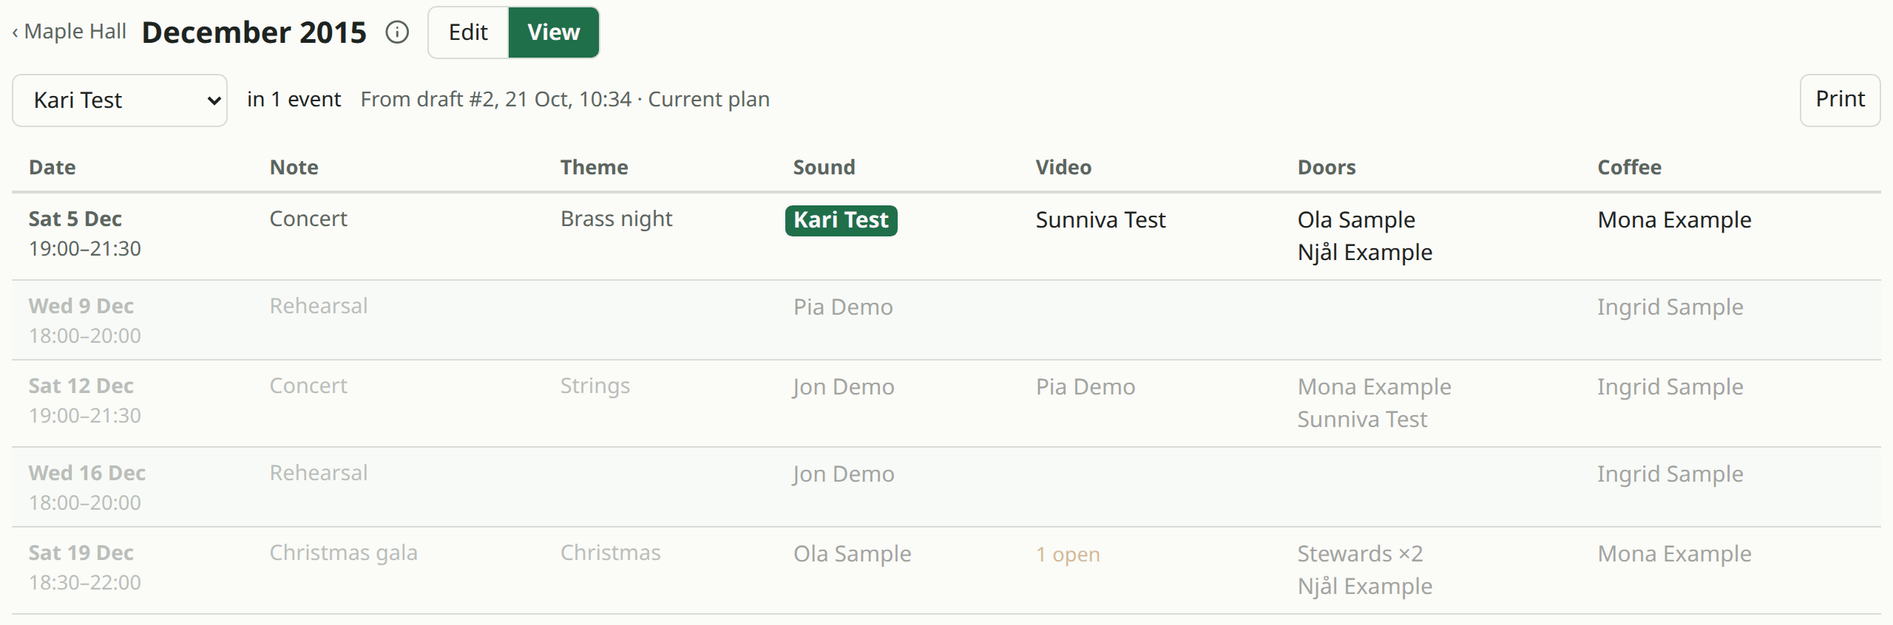
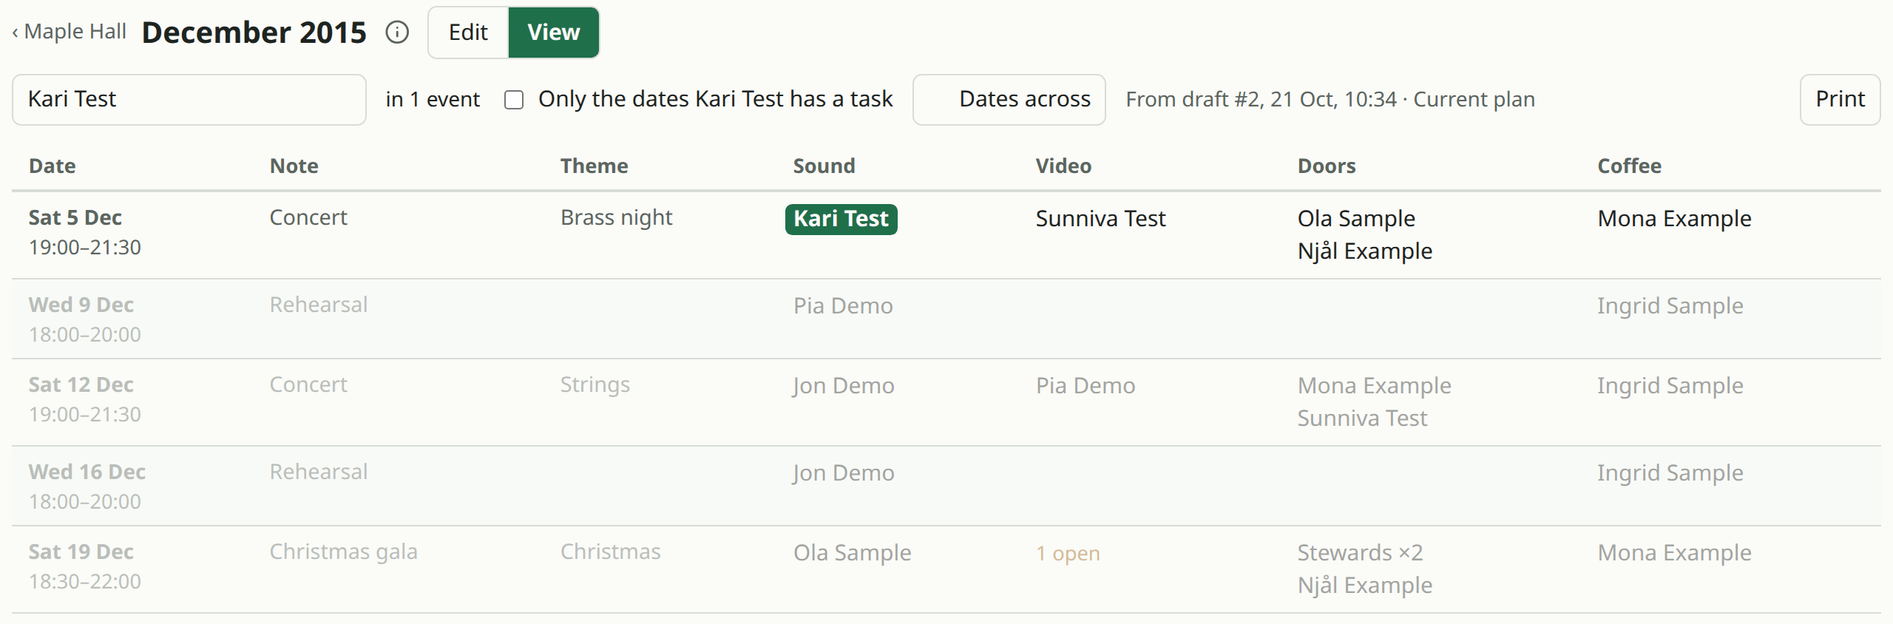
View: a search field to find a name, Dates across, Only the dates with a task (#43)
«Find a name» is a search field with the names that match under it (arrows,
Enter, a click). «Dates across» turns the table: the dates as columns, the
details and tasks as rows. With a name found, «Only the dates <name> has a
task» leaves the other dates out. All three are kept per plan in the browser.

diff --git a/web/app.js b/web/app.js
@@ -1057,47 +1057,114 @@ async function pagePlan(r, org, people) {
     const showTasks = tasks.filter((tk) => events.some((ev) => placesAt[at(ev, tk)] || cellsAt[at(ev, tk)]));
     const showFields = fields.fields.filter((f) => events.some((ev) => fieldValue[ev.id + '/' + f.id]));
     const has = (ev, tk) => !!(placesAt[at(ev, tk)] || cellsAt[at(ev, tk)]);
+    const value = (ev, f) => fieldValue[ev.id + '/' + f.id] || '';
     const names = (ev, tk) => {
       const s = slotsAt(ev, tk);
       return h('span', { class: 'names' }, s.items.map((x) => h('span', { class: 'nm', 'data-person': x.kind === 'person' ? String(x.id) : null }, itemText(x))),
         s.open ? h('span', { class: 'open' }, tn('show.open', s.open)) : '');
     };
-    const tbl = h('div', { class: 'show-scroll' }, h('table', { class: 'show-table' },
+    const hasTask = (ev, id) => showTasks.some((tk) => has(ev, tk) && slotsAt(ev, tk).items.some((x) => x.kind === 'person' && x.id === id));
+    const when = (ev) => [h('span', { class: 'd' }, fmtShortDate(ev.date)), clock(ev) ? h('span', { class: 'tm' }, clock(ev)) : ''];
+    // Remembered per plan in this browser: the name found, whether the dates go across (2026-11-23, the user: "Add option to show
+    // the table with dates on the x axis"), and whether only the dates the name has a task on are shown ("only include dates where
+    // the selected person has a task").
+    const findKey = 'find:' + key, acrossKey = 'across:' + key, onlyKey = 'only:' + key;
+    let across = store.get(acrossKey) === '1';
+    let only = store.get(onlyKey) === '1';
+    let found = 0;
+    // events down, tasks across; or the dates across, the details and the tasks down. Every cell of an event says which (data-ev).
+    const down = (evs) => h('table', { class: 'show-table' },
       h('thead', {}, h('tr', {}, h('th', { scope: 'col' }, t('show.date')), showFields.map((f) => h('th', { scope: 'col' }, f.name)),
         showTasks.map((tk) => h('th', { scope: 'col' }, tk.name)))),
-      h('tbody', {}, events.map((ev) => h('tr', { class: 'show-ev' },
-        h('th', { scope: 'row' }, h('span', { class: 'd' }, fmtShortDate(ev.date)), clock(ev) ? h('span', { class: 'tm' }, clock(ev)) : ''),
-        showFields.map((f) => h('td', { class: 'detail' }, fieldValue[ev.id + '/' + f.id] || '')),
-        showTasks.map((tk) => h('td', {}, has(ev, tk) ? names(ev, tk) : '')))))));
-    const cards = h('div', { class: 'show-cards' }, events.map((ev) => h('section', { class: 'show-card show-ev' },
+      h('tbody', {}, evs.map((ev) => h('tr', { 'data-ev': String(ev.id) },
+        h('th', { scope: 'row' }, when(ev)),
+        showFields.map((f) => h('td', { class: 'detail' }, value(ev, f))),
+        showTasks.map((tk) => h('td', {}, has(ev, tk) ? names(ev, tk) : ''))))));
+    const acrossTable = (evs) => h('table', { class: 'show-table across' },
+      h('thead', {}, h('tr', {}, h('th', { scope: 'col' }, ''), evs.map((ev) => h('th', { scope: 'col', 'data-ev': String(ev.id) }, when(ev))))),
+      h('tbody', {},
+        showFields.map((f) => h('tr', {}, h('th', { scope: 'row' }, f.name), evs.map((ev) => h('td', { class: 'detail', 'data-ev': String(ev.id) }, value(ev, f))))),
+        showTasks.map((tk) => h('tr', {}, h('th', { scope: 'row' }, tk.name), evs.map((ev) => h('td', { 'data-ev': String(ev.id) }, has(ev, tk) ? names(ev, tk) : ''))))));
+    const cards = (evs) => h('div', { class: 'show-cards' }, evs.map((ev) => h('section', { class: 'show-card', 'data-ev': String(ev.id) },
       h('h2', {}, fmtDate(ev.date), clock(ev) ? h('span', { class: 'tm' }, clock(ev)) : ''),
-      showFields.filter((f) => fieldValue[ev.id + '/' + f.id]).map((f) => h('p', { class: 'detail' }, h('span', { class: 'lbl' }, f.name), ' ', fieldValue[ev.id + '/' + f.id])),
+      showFields.filter((f) => value(ev, f)).map((f) => h('p', { class: 'detail' }, h('span', { class: 'lbl' }, f.name), ' ', value(ev, f))),
       h('dl', {}, showTasks.filter((tk) => has(ev, tk)).map((tk) => h('div', {}, h('dt', {}, tk.name), h('dd', {}, names(ev, tk))))))));
-    // «Find a name»: their names stand out, the events they are not in fade; remembered per plan in this browser
-    const findKey = 'find:' + key;
-    const found = h('span', { class: 'small found', 'aria-live': 'polite' });
-    const find = (id) => {
-      store.set(findKey, id ? String(id) : '');
-      let n = 0;
-      root.querySelectorAll('.show-ev').forEach((ev) => {
-        let hit = false;
-        ev.querySelectorAll('.nm[data-person]').forEach((x) => { const on = !!id && x.dataset.person === String(id); x.classList.toggle('hit', on); hit ||= on; });
-        ev.classList.toggle('miss', !!id && !hit);
-        if (hit && ev.closest('.show-table')) n++;
-      });
-      found.textContent = id ? tn('show.found', n) : '';
+    const body = h('div', { class: 'show-body' });
+    const count = h('span', { class: 'small found', 'aria-live': 'polite' });
+    const onlyBox = h('input', { type: 'checkbox', checked: only, onchange: (e) => { only = e.target.checked; store.set(onlyKey, only ? '1' : ''); draw(); } });
+    const onlyLabel = h('span', {});
+    const onlyField = h('label', { class: 'check only' }, onlyBox, onlyLabel);
+    const acrossBtn = h('button', { type: 'button', class: 'ghost across-btn', 'aria-pressed': String(across), title: t('show.across_hint'),
+      onclick: () => { across = !across; store.set(acrossKey, across ? '1' : ''); acrossBtn.setAttribute('aria-pressed', String(across)); draw(); } },
+    icon('check'), ' ' + t('show.across'));
+    // the name found stands out, the events without it fade (or are left out, with «only»)
+    function draw() {
+      const evs = found && only ? events.filter((ev) => hasTask(ev, found)) : events;
+      body.replaceChildren(h('div', { class: 'show-scroll' }, (across ? acrossTable : down)(evs)), cards(evs));
+      body.querySelectorAll('.nm[data-person]').forEach((x) => x.classList.toggle('hit', !!found && x.dataset.person === String(found)));
+      const hits = new Set(events.filter((ev) => found && hasTask(ev, found)).map((ev) => String(ev.id)));
+      body.querySelectorAll('[data-ev]').forEach((x) => x.classList.toggle('miss', !!found && !hits.has(x.dataset.ev)));
+      count.textContent = found ? tn('show.found', hits.size) : '';
+      const p = people.find((x) => x.id === found);
+      onlyField.hidden = !p;
+      onlyLabel.textContent = p ? ' ' + t('show.only', { name: p.name }) : '';
+    }
+    // «Find a name»: a search field with the names that match under it (arrows and Enter, or a click); empty = nobody
+    const sorted = [...people].sort((a, b) => a.name.localeCompare(b.name, locale()));
+    const input = h('input', { type: 'search', class: 'find', placeholder: t('show.find'), 'aria-label': t('show.find'), autocomplete: 'off',
+      role: 'combobox', 'aria-autocomplete': 'list', 'aria-expanded': 'false', 'aria-controls': 'find-list' });
+    const list = h('ul', { class: 'find-list', id: 'find-list', role: 'listbox', hidden: true });
+    let active = -1;
+    const options = () => [...list.querySelectorAll('li[role=option]')];
+    const close = () => { list.hidden = true; input.setAttribute('aria-expanded', 'false'); active = -1; };
+    const pick = (p) => {
+      found = p ? p.id : 0;
+      input.value = p ? p.name : '';
+      store.set(findKey, found ? String(found) : '');
+      close();
+      draw();
     };
-    const sel = h('select', { class: 'find', 'aria-label': t('show.find'), onchange: (e) => find(Number(e.target.value)) },
-      h('option', { value: '' }, t('show.find')), [...people].sort((a, b) => a.name.localeCompare(b.name, locale())).map((p) => h('option', { value: String(p.id) }, p.name)));
+    const activate = (i) => {
+      active = i;
+      options().forEach((o, j) => o.setAttribute('aria-selected', String(j === i)));
+      if (options()[i]) { options()[i].scrollIntoView({ block: 'nearest' }); input.setAttribute('aria-activedescendant', options()[i].id); }
+    };
+    const open = () => {
+      const q = input.value.trim().toLowerCase();
+      const hits = sorted.filter((p) => p.name.toLowerCase().includes(q))
+        .sort((a, b) => Number(!a.name.toLowerCase().startsWith(q)) - Number(!b.name.toLowerCase().startsWith(q)));
+      list.replaceChildren(...(hits.length ? hits.map((p, i) => h('li', { role: 'option', id: 'find-' + i, 'aria-selected': 'false',
+        onmousedown: (e) => { e.preventDefault(); pick(p); } }, p.name)) : [h('li', { class: 'none' }, t('show.find_none'))]));
+      list.hidden = false;
+      input.setAttribute('aria-expanded', 'true');
+      if (q && hits.length) activate(0); else active = -1;
+    };
+    input.addEventListener('focus', () => { input.select(); open(); });
+    input.addEventListener('input', () => { if (!input.value.trim()) { pick(null); input.focus(); } open(); });
+    input.addEventListener('blur', () => {
+      close();
+      const p = people.find((x) => x.id === found);
+      input.value = p ? p.name : '';  // what is typed but not picked is let go
+    });
+    input.addEventListener('keydown', (e) => {
+      const n = options().length;
+      if (e.key === 'ArrowDown') { e.preventDefault(); if (list.hidden) open(); activate(Math.min(n - 1, active + 1)); }
+      else if (e.key === 'ArrowUp') { e.preventDefault(); activate(Math.max(0, active - 1)); }
+      else if (e.key === 'Enter') { e.preventDefault(); const o = options()[active]; if (o) pick(sorted.find((p) => p.name === o.textContent)); }
+      else if (e.key === 'Escape') { if (!list.hidden) { e.preventDefault(); close(); } }
+    });
     const source = done ? t('show.source', { id: view.run.id, time: fmtTime(view.run.finished_at || view.run.started_at) }) + (view.run.pinned ? ' · ' + t('run.current') : '')
       : t('show.no_draft');
     const root = h('div', { class: 'plan-page show' },
       h('div', { class: 'title-bar' }, back(), h('h1', {}, plan.name), infoBtn(plan.name, [t('show.info')]), modeSwitch, shareBtn()),
-      events.length ? h('div', { class: 'show-tools' }, sel, found, h('span', { class: 'small muted source' }, source),
+      events.length ? h('div', { class: 'show-tools' }, h('div', { class: 'findbox' }, input, list), count, onlyField, acrossBtn,
+        h('span', { class: 'small muted source' }, source),
         h('button', { type: 'button', class: 'ghost print', onclick: () => window.print() }, t('show.print'))) : h('p', { class: 'muted small' }, t('show.no_events')),
-      events.length ? [tbl, cards] : '');
+      events.length ? body : '');
     const was = Number(store.get(findKey) || (org.level === 'answer' ? store.get('me:' + key) : ''));  // an answer link: the name chosen
-    if (people.some((p) => p.id === was)) { sel.value = String(was); find(was); }
+    const p = people.find((x) => x.id === was);
+    if (p) { found = p.id; input.value = p.name; }
+    draw();
     return root;
   }
 

diff --git a/scripts/ui-check.js b/scripts/ui-check.js
@@ -524,15 +524,33 @@ const { spawn } = require('child_process');
       const shown = await page.innerText('.show-table');
       ok(shown.includes('Outside guest ×2') && shown.includes('Café') && /\d+ open/.test(shown), 'View has what is set by hand, the tasks and what is open: ' + shown.slice(0, 300));
       ok((await page.locator('.show-table tbody tr').count()) === (await page.locator('.show-cards .show-card').count()), 'a row and a card per event');
-      await page.selectOption('select.find', { label: 'Kari Test' });
+      // «Find a name»: a search field; typing shows the names that match, the arrows and Enter pick one
+      await page.fill('input.find', 'ari');
+      ok((await page.locator('.find-list li[role=option]').allInnerTexts()).join(',') === 'Kari Test', 'typing shows the names that match: ' + (await page.locator('.find-list').innerText()));
+      await page.fill('input.find', 'zzz');
+      ok((await page.innerText('.find-list')) === 'No name matches', 'and says when none does');
+      await page.fill('input.find', 'kar');
+      await page.keyboard.press('Enter');
+      await until(page, () => document.querySelector('input.find').value === 'Kari Test' && document.querySelector('.find-list').hidden, null, 'Enter picks the name');
       const hits = await page.locator('.show-table .nm.hit').count();
       ok(hits > 0 && (await page.locator('.show-table .nm.hit').first().innerText()) === 'Kari Test', 'the name found stands out');
       ok((await page.innerText('.show-tools .found')) === (hits === 1 ? 'in 1 event' : `in ${hits} events`), 'how many events: ' + await page.innerText('.show-tools .found'));
-      const fades = await page.locator('.show-table tr.show-ev.miss').count();
-      ok(fades > 0 && fades + hits === (await page.locator('.show-table tbody tr').count()), 'the events without the name fade: ' + fades);
+      const fades = await page.locator('.show-table tbody tr.miss').count();
+      const rows = await page.locator('.show-table tbody tr').count();
+      ok(fades > 0 && fades + hits === rows, 'the events without the name fade: ' + fades);
+      // only the dates the name has a task on; then the dates across, with the name still found
+      await page.getByLabel('Only the dates Kari Test has a task').check();
+      ok((await page.locator('.show-table tbody tr').count()) === hits && !(await page.locator('.show-table tbody tr.miss').count()), 'only the dates with a task for the name');
+      await page.click('.show-tools .across-btn');
+      ok((await page.locator('.show-table.across thead th[data-ev]').count()) === hits && (await page.locator('.show-table.across tbody th[scope=row]').allInnerTexts()).includes('Café'), 'the dates across, the tasks down');
+      ok((await page.locator('.show-table.across .nm.hit').count()) === hits, 'the name stands out across too');
       await page.reload();
       await page.waitForSelector('.show-tools');
-      ok((await page.locator('.show-table .nm.hit').count()) === hits && (await page.inputValue('select.find')) !== '', 'View and the name found are kept after a reload');
+      ok((await page.locator('.show-table.across .nm.hit').count()) === hits && (await page.inputValue('input.find')) === 'Kari Test', 'View, the name, only and across are kept after a reload');
+      await page.getByLabel('Only the dates Kari Test has a task').uncheck();
+      ok((await page.locator('.show-table.across thead th[data-ev]').count()) === rows && (await page.locator('.show-table.across thead th.miss').count()) === fades, 'all the dates again, those without the name faded');
+      await page.click('.show-tools .across-btn');
+      await page.waitForSelector('.show-table:not(.across)');
       // a phone: a card per event instead of the table; printed: the table, without the page around it
       await page.setViewportSize({ width: 390, height: 844 });
       ok(await page.locator('.show-cards').isVisible() && !(await page.locator('.show-scroll').isVisible()), 'a phone gets a card per event');
@@ -541,10 +559,11 @@ const { spawn } = require('child_process');
       ok(pw[0] <= pw[1], `View on a phone is ${pw[0]} px wide on a ${pw[1]} px screen`);
       await page.emulateMedia({ media: 'print' });
       ok(await page.locator('.show-scroll').isVisible() && !(await page.locator('.show-cards').isVisible()), 'printed: the table, also from a phone');
-      ok(!(await page.locator('header').isVisible()) && !(await page.locator('.title-bar .mode').isVisible()) && !(await page.locator('select.find').isVisible()), 'printed: no header, mode or find');
+      ok(!(await page.locator('header').isVisible()) && !(await page.locator('.title-bar .mode').isVisible()) && !(await page.locator('input.find').isVisible()), 'printed: no header, mode or find');
       await page.emulateMedia({ media: 'screen' });
       await page.setViewportSize({ width: 1280, height: 900 });
-      await page.selectOption('select.find', '');
+      await page.fill('input.find', '');
+      await page.locator('input.find').blur();
       ok((await page.locator('.show .nm.hit, .show .miss').count()) === 0 && (await page.innerText('.show-tools .found')) === '', 'no name: nothing stands out');
       await page.click('.title-bar .mode button[data-mode=edit]');
       await page.waitForSelector('.dp-table');
@@ -815,7 +834,7 @@ const { spawn } = require('child_process');
     ok((await page.locator('button.ans[aria-label^="Kari Test, søn. 2. aug. 11:00:"]').getAttribute('aria-label')).endsWith(': kanskje'), 'the answers are Norwegian');
     await page.click('.title-bar .mode button[data-mode=show]');
     await page.waitForSelector('.show-tools');
-    ok((await page.innerText('.title-bar .mode')).replace(/\s+/g, ' ').trim() === 'Rediger Vis' && (await page.innerText('select.find option:first-child')) === 'Finn et navn'
+    ok((await page.innerText('.title-bar .mode')).replace(/\s+/g, ' ').trim() === 'Rediger Vis' && (await page.getAttribute('input.find', 'placeholder')) === 'Finn et navn'
       && (await page.innerText('.show-table thead')).includes('Dato') && (await page.innerText('.show-tools .source')).startsWith('Fra utkast #2'), 'View is Norwegian');
     await page.click('.title-bar .mode button[data-mode=edit]');
     await page.waitForSelector('.dp-table');
@@ -992,7 +1011,7 @@ const { spawn } = require('child_process');
       // View has the plan, with the name chosen found
       await pg.click('.title-bar .mode button[data-mode=show]');
       await pg.waitForSelector('.show-tools');
-      ok((await pg.locator('select.find option:checked').innerText()) === 'Pia Demo', 'View finds the name chosen');
+      ok((await pg.inputValue('input.find')) === 'Pia Demo', 'View finds the name chosen');
       await pg.click('.title-bar .mode button[data-mode=me]');
       await pg.waitForSelector('.me-list');
       await pg.getByRole('button', { name: 'Not you? Switch' }).click();

diff --git a/web/style.css b/web/style.css
@@ -497,7 +497,21 @@ td.answer.has-note .note-tab::after { border-color: transparent #d97706 transpar
 .show .names { display: flex; flex-direction: column; align-items: flex-start; gap: .1rem; }
 .show .names .open { color: var(--warn); font-size: .85rem; }
 .show .nm.hit { background: var(--accent); color: var(--bg); border-radius: .3rem; padding: 0 .35rem; margin: 0 -.35rem; font-weight: 600; }
-.show .show-ev.miss { opacity: .4; }
+.show [data-ev].miss { opacity: .4; }
+.show-tools .findbox { position: relative; }
+.show-tools input.find { width: 15rem; }
+.show-tools .find-list { position: absolute; z-index: 5; left: 0; right: 0; top: calc(100% + 2px); margin: 0; padding: .2rem; list-style: none; max-height: 18rem; overflow: auto;
+  background: var(--bg); border: 1px solid var(--line); border-radius: .4rem; box-shadow: 0 6px 20px rgba(0, 0, 0, .12); }
+.show-tools .find-list li { padding: .35rem .5rem; border-radius: .3rem; cursor: pointer; }
+.show-tools .find-list li[aria-selected=true], .show-tools .find-list li[role=option]:hover { background: color-mix(in srgb, var(--accent) 14%, var(--bg)); }
+.show-tools .find-list li.none { color: var(--muted); cursor: default; }
+.show-tools .only[hidden] { display: none; }
+.show-tools .across-btn svg { visibility: hidden; }
+.show-tools .across-btn[aria-pressed=true] { border-color: var(--accent); color: var(--accent); background: color-mix(in srgb, var(--accent) 10%, var(--bg)); }
+.show-tools .across-btn[aria-pressed=true] svg { visibility: visible; }
+.show-table.across thead th, .show-table.across td { white-space: nowrap; }
+.show-table.across tbody th[scope=row] { color: var(--muted); font-weight: 600; white-space: nowrap; }
+.show-table.across tbody tr:nth-child(even) { background: var(--draft-row); }
 .show-cards { display: none; }
 .show-card { border: 1px solid var(--line); border-radius: .6rem; padding: .6rem .8rem; margin: .6rem 0; }
 .show-card h2 { margin: 0 0 .3rem; font-size: 1.05rem; }
@@ -511,13 +525,14 @@ td.answer.has-note .note-tab::after { border-color: transparent #d97706 transpar
 @media (max-width: 40rem) {
   .show .show-scroll { display: none; }
   .show .show-cards { display: block; }
-  .show-tools .find { flex: 1 1 100%; }
+  .show-tools .findbox, .show-tools input.find { flex: 1 1 100%; width: 100%; }
+  .show-tools .across-btn { display: none; }
   .show-tools .print { display: none; }
   .title-bar .mode button { padding: 0 .6rem; }
 }
 /* printed: the table only, black on white, without the page around it */
 @media print {
-  header, .title-bar .info, .title-bar .mode, .title-bar .share, .title-bar .back, .show-tools select, .show-tools .found, .show-tools .print, #msg, #conn { display: none !important; }
+  header, .title-bar .info, .title-bar .mode, .title-bar .share, .title-bar .back, .show-tools .findbox, .show-tools .only, .show-tools .across-btn, .show-tools .found, .show-tools .print, #msg, #conn { display: none !important; }
   body { background: #fff; color: #000; font-size: 11pt; }
   main, main:has(.plan-page) { max-width: none; padding: 0; }
   .show .show-scroll { display: block !important; overflow: visible; }
@@ -527,7 +542,7 @@ td.answer.has-note .note-tab::after { border-color: transparent #d97706 transpar
   .show-table th, .show-table td { border-color: #999; padding: .25rem .5rem; }
   .show-table tbody tr:nth-child(even) { background: none; }
   .show-table tr { break-inside: avoid; }
-  .show .show-ev.miss { opacity: 1; }
+  .show [data-ev].miss { opacity: 1; }
   .show .nm.hit { background: none; color: #000; text-decoration: underline; }
 }
 

diff --git a/web/i18n.js b/web/i18n.js
@@ -351,11 +351,15 @@ const MESSAGES = {
     'me.answer_aria': '{label}: {answer}',
     'me.you_have': 'You: {tasks}',
     'me.note_saved': 'Note saved',
-    'show.info': 'The plan as it stands: who has each task, from the current draft (else the newest) and the names set by hand, with the event details. Nothing can be changed here: «Edit» is the full table. «Find a name» makes one person’s tasks stand out. «Print» prints the table.',
+    'show.info': 'The plan as it stands: who has each task, from the current draft (else the newest) and the names set by hand, with the event details. Nothing can be changed here: «Edit» is the full table. «Find a name» makes one person’s tasks stand out, and can leave out the dates they have no task on. «Dates across» turns the table. «Print» prints the table.',
     'show.date': 'Date',
     'show.open.one': '1 open',
     'show.open.other': '{n} open',
     'show.find': 'Find a name',
+    'show.find_none': 'No name matches',
+    'show.only': 'Only the dates {name} has a task',
+    'show.across': 'Dates across',
+    'show.across_hint': 'The dates as columns and the tasks as rows, or the other way round',
     'show.found.one': 'in 1 event',
     'show.found.other': 'in {n} events',
     'show.source': 'From draft #{id}, {time}',
@@ -938,11 +942,15 @@ const MESSAGES = {
     'me.answer_aria': '{label}: {answer}',
     'me.you_have': 'Du: {tasks}',
     'me.note_saved': 'Notatet er lagret',
-    'show.info': 'Planen slik den står: hvem som har hver oppgave, fra gjeldende utkast (ellers det nyeste) og navnene satt for hånd, med det som står om hendelsen. Her kan ingenting endres: «Rediger» er hele tabellen. «Finn et navn» får én persons oppgaver til å skille seg ut. «Skriv ut» skriver ut tabellen.',
+    'show.info': 'Planen slik den står: hvem som har hver oppgave, fra gjeldende utkast (ellers det nyeste) og navnene satt for hånd, med det som står om hendelsen. Her kan ingenting endres: «Rediger» er hele tabellen. «Finn et navn» får én persons oppgaver til å skille seg ut, og kan ta bort datoene uten oppgave for dem. «Datoer bortover» snur tabellen. «Skriv ut» skriver ut tabellen.',
     'show.date': 'Dato',
     'show.open.one': '1 ledig',
     'show.open.other': '{n} ledige',
     'show.find': 'Finn et navn',
+    'show.find_none': 'Ingen navn passer',
+    'show.only': 'Bare datoene {name} har en oppgave',
+    'show.across': 'Datoer bortover',
+    'show.across_hint': 'Datoene som kolonner og oppgavene som rader, eller omvendt',
     'show.found.one': 'i 1 hendelse',
     'show.found.other': 'i {n} hendelser',
     'show.source': 'Fra utkast #{id}, {time}',

diff --git a/scripts/shots.js b/scripts/shots.js
@@ -222,7 +222,9 @@ const CHOICES = {
     step = '16-view';
     await page.click('.title-bar .mode button[data-mode=show]');
     await page.waitForSelector('.show-tools');
-    await page.selectOption('select.find', { label: 'Kari Test' });
+    await page.fill('input.find', 'Kari');
+    await page.keyboard.press('Enter');
+    await page.locator('input.find').blur();
     await range(page, '16-view', page.locator('main h1'), page.locator('.show-table tbody tr').last());
     await page.click('.title-bar .mode button[data-mode=edit]');
     await page.waitForSelector('.dp-table');
@@ -243,7 +245,9 @@ const CHOICES = {
     step = '17-view-phone';
     await phone.click('.title-bar .mode button[data-mode=show]');
     await phone.waitForSelector('.show-cards');
-    await phone.selectOption('select.find', { label: 'Kari Test' });
+    await phone.fill('input.find', 'Kari');
+    await phone.keyboard.press('Enter');
+    await phone.locator('input.find').blur();
     await phone.screenshot({ path: path.join(OUT, '17-view-phone.png') });
 
     // «My answers», what an answer link opens (this server has no login: the organisation is made to say level answer)

diff --git a/CLAUDE.md b/CLAUDE.md
@@ -135,7 +135,9 @@ starts the Python planner, turns the answer into a view with explanations), `int
   - **Edit | View** (2026-11-23, the user: "Kanskje også en visning som er en penere visning uten redigering eller tilgjengelighet? … Ikke egne lenker for nå,
     bare to moduser for samme data."): a switch in the title bar (`modeSwitch`; `showPage()` in `pagePlan`), kept per plan in localStorage (`mode:`), no
     route of its own. View = events down, tasks across, what each place holds now (`slotsAt`, from the pinned run, else the newest `done` one: never the draft
-    picked in Edit), the details; a card per event on a phone, print CSS for the table, «Find a name» (`find:` in localStorage). A view-only link starts in View
+    picked in Edit), the details; a card per event on a phone, print CSS for the table, «Find a name» (`find:` in localStorage; a search field with
+    a list under it, 2026-11-23: "let the name selector be a nice search field"), «Dates across» (`across:`, "show the table with dates on the x axis") and
+    «Only the dates <name> has a task» (`only:`, "only include dates where the selected person has a task"). Every cell of an event has `data-ev` (fading). A view-only link starts in View
     («Table» is the other mode). Covered by ui-check only (no Go in it).
   - **On a phone** the same table as on a wide screen, narrower (2026-11-22, the user: "La vertikal visning på mobil vises som vanlig. Den
     løsningen som er i dag er litt forvirrende." — the turned availability of 2026-11-20 is gone; do not bring it back). Names stay put, the days

diff --git a/README.md b/README.md
@@ -132,8 +132,8 @@ with the weighting and the plan's name.
 
 **Edit or View.** The same page has two modes, a switch by the title: *Edit* is the table above, *View* is the plan as it stands
 and nothing else: the events down the page, the tasks across, with who has each place (the current plan, else the newest
-draft, with the names set by hand) and the event details. *Find a name* makes one person's tasks stand out and fades the
-events they are not in; *Print* prints the table. On a phone it is a card per event. The mode and the name are kept in that
+draft, with the names set by hand) and the event details. *Find a name* (a search field) makes one person's tasks stand out and fades the
+events they are not in, or leaves them out (*Only the dates … has a task*); *Dates across* turns the table, the dates as columns; *Print* prints the table. On a phone it is a card per event. The mode and the name are kept in that
 browser; someone with a link that may only view starts in View.
 
 ![View: the plan as it stands, with one person's tasks standing out](docs/img/16-view.png)
